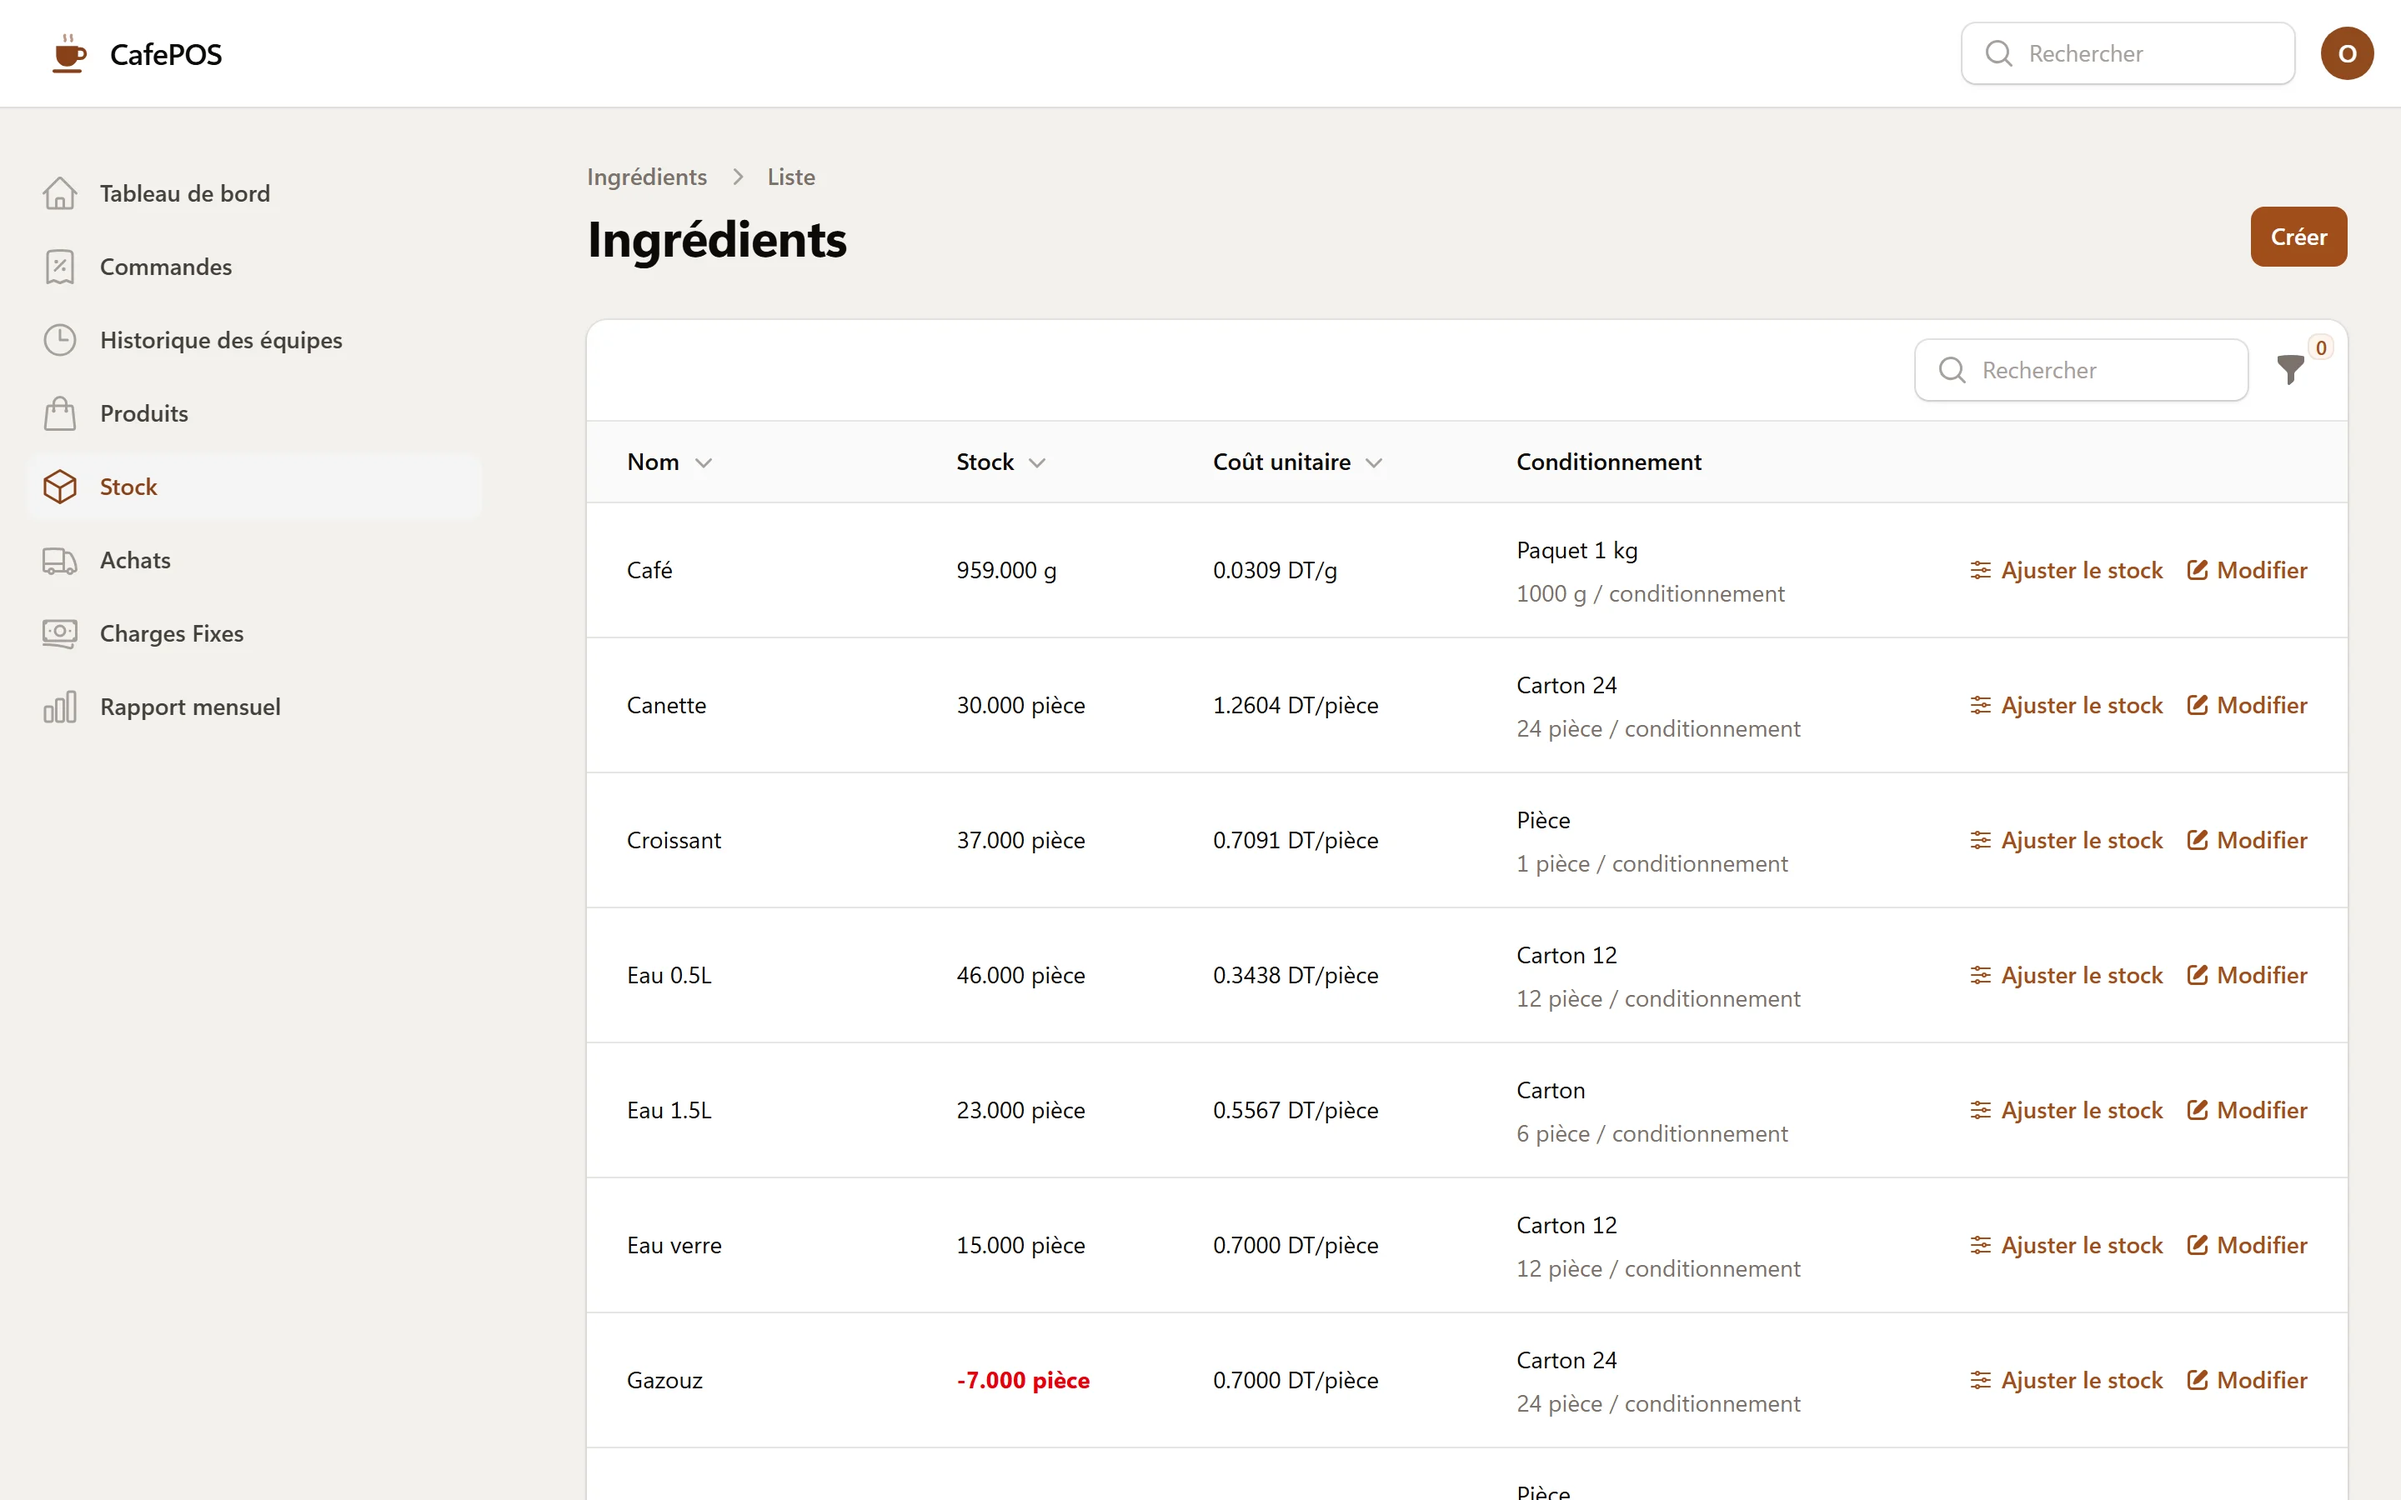
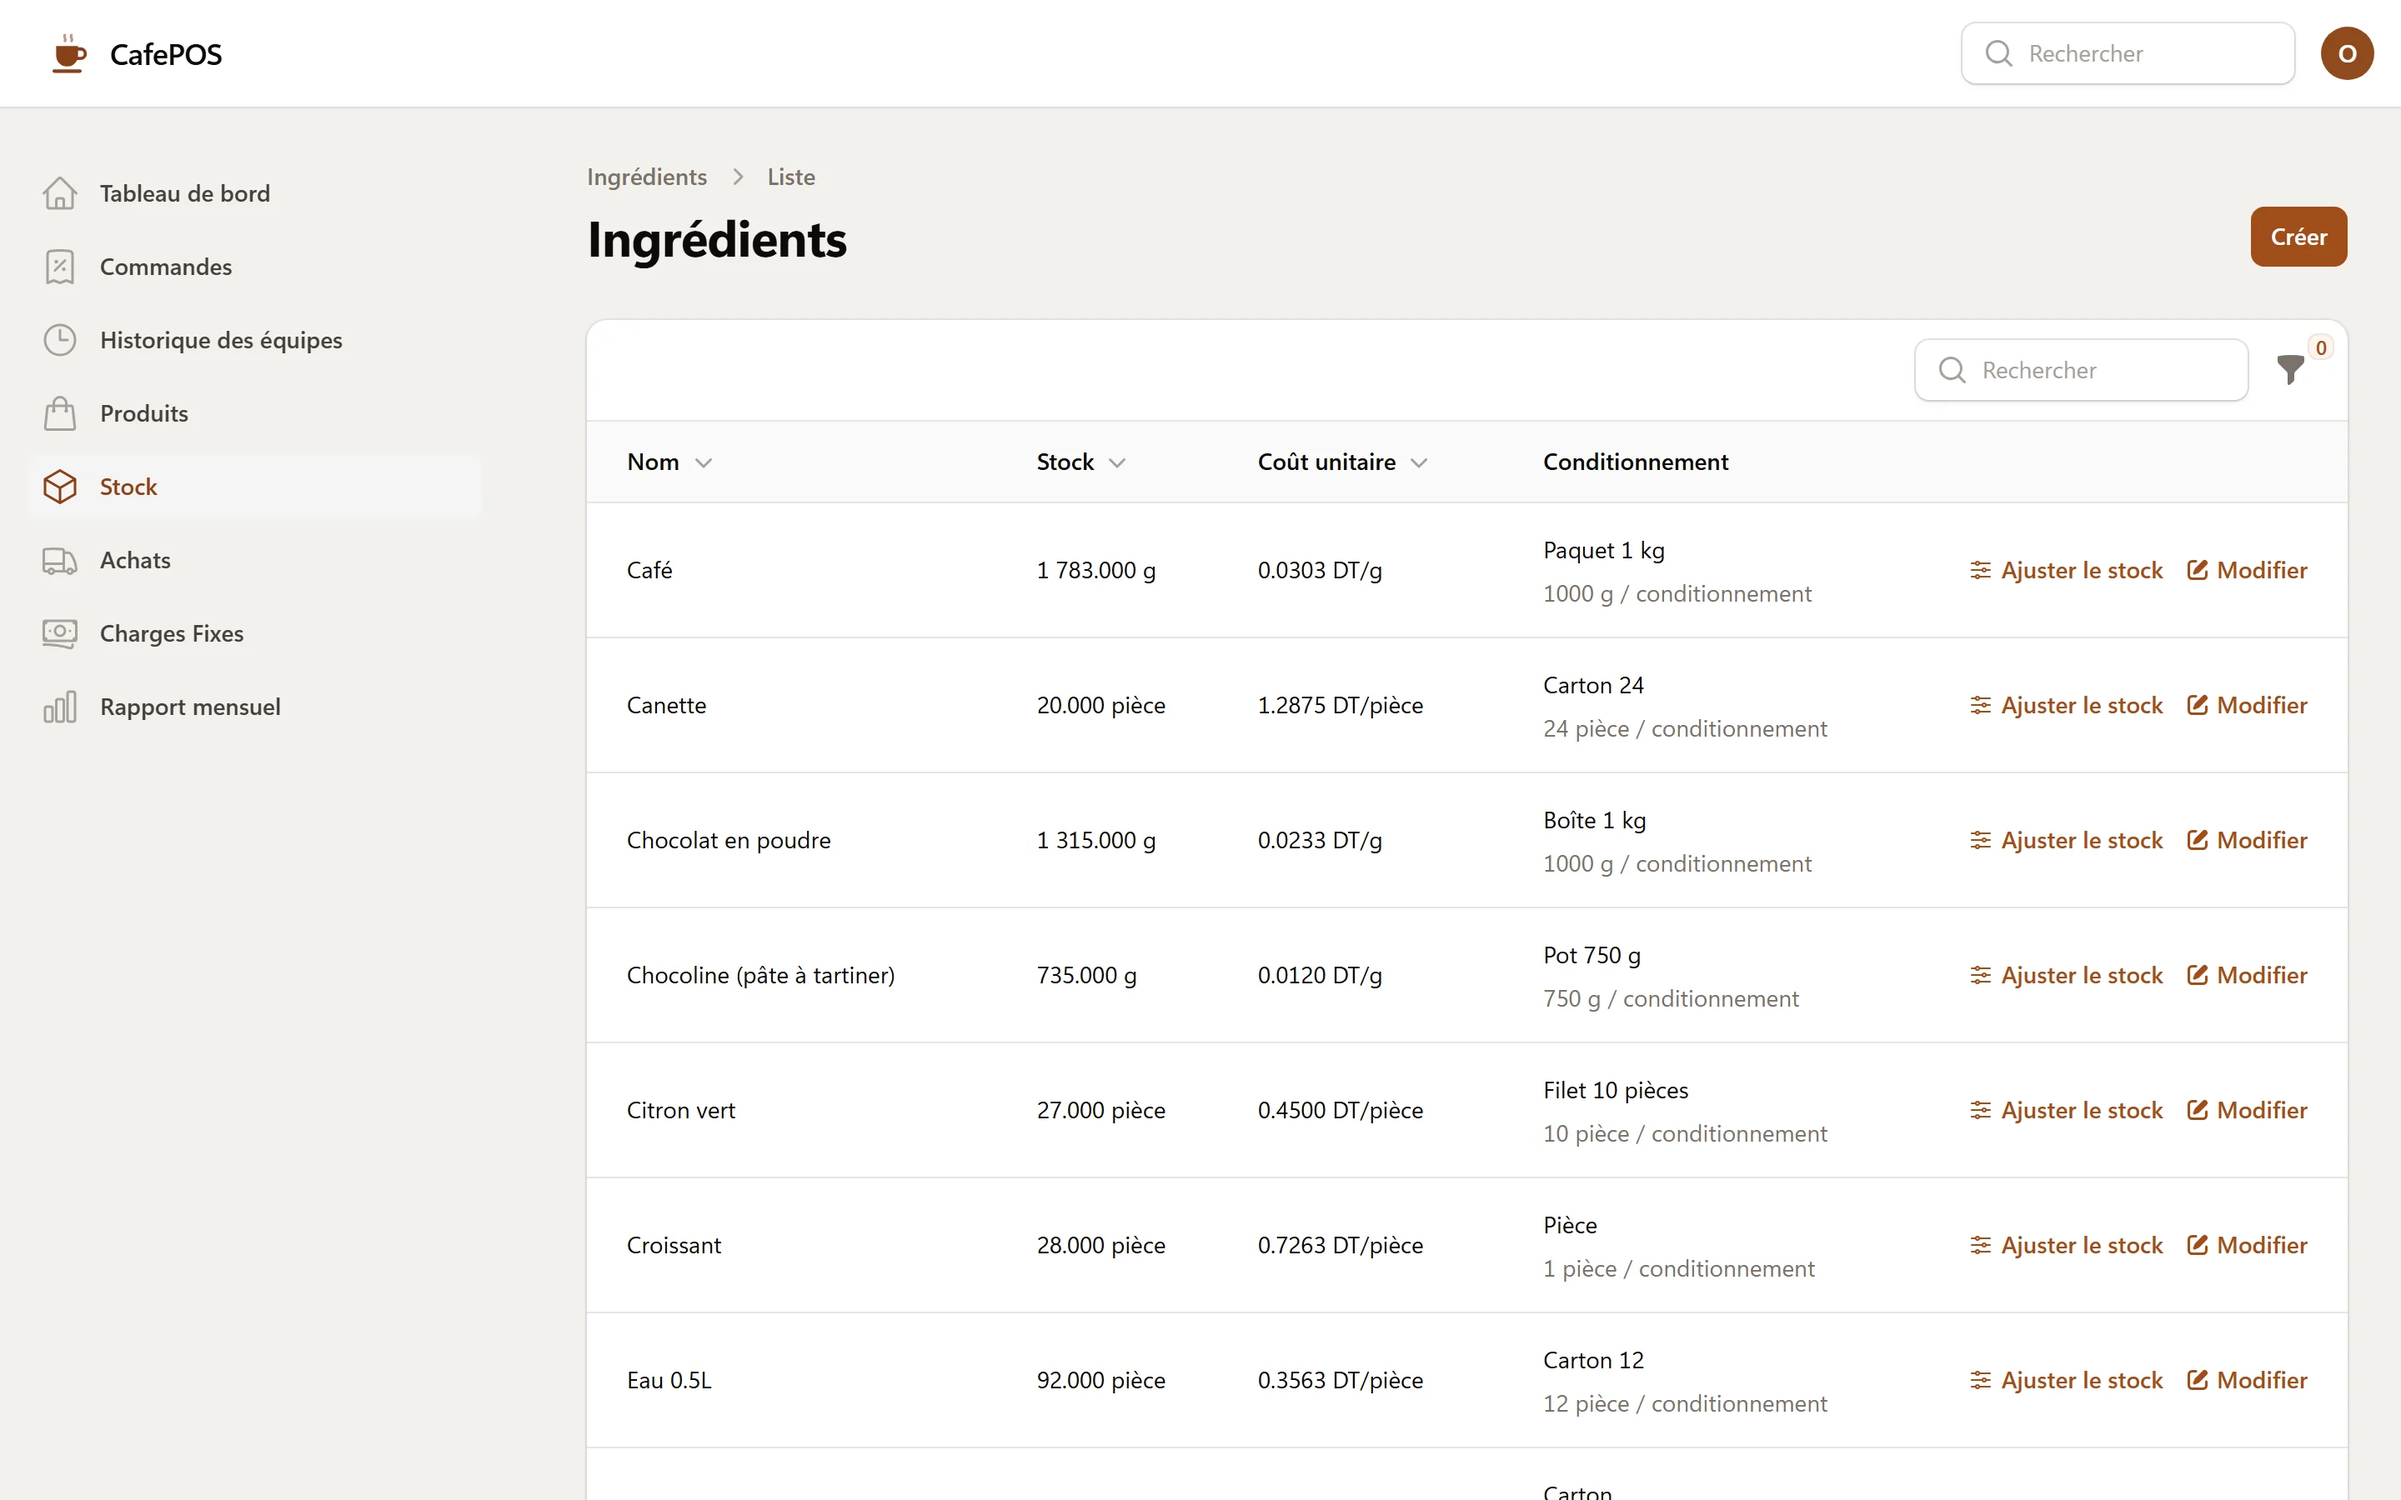
Reshoot the showcase screenshots on a full month of demo data
Screenshots now show the end of a profitable demo month and complete
demo recipes, so costs and margins read realistically; one recipe is
left incomplete to show the estimate marker.

diff --git a/README.md b/README.md
@@ -15,7 +15,7 @@ report for the owner, all running on one Windows laptop with no internet connect
 ![The till: categories, product tiles and the current order](docs/screenshots/till.webp)
 
 > All names, prices, costs, recipes, expenses and sales in these screenshots are **generated demo
-> data**, not a real cafe's figures. The demo owner PIN is `1234`.
+> data**, not a real cafe's figures (with a few extra demo recipes beyond the seed). The demo owner PIN is `1234`.
 
 ## Why
 
@@ -77,11 +77,11 @@ set the constraints:
 | ![End-of-shift confirmation](docs/screenshots/till-end-shift.webp) | ![Shift receipt on the till](docs/screenshots/till-receipt.webp) |
 | **Ending a shift** asks for confirmation; the till then locks. | **Shift receipt:** items x qty, orders, cancelled orders apart, total. |
 | ![Owner dashboard](docs/screenshots/dashboard.webp) | ![Monthly report](docs/screenshots/monthly-report.webp) |
-| **Dashboard:** today, month, estimated profit (a week into the month, fixed expenses still outweigh sales), stock alerts, latest shifts. | **Monthly report:** net profit, then cost and margin per product (`~` = estimate from an incomplete recipe). |
+| **Dashboard:** today, month, estimated net profit, stock alerts, latest shifts. | **Monthly report:** net profit, then cost and margin per product (`~` = estimate from an incomplete recipe). |
 | ![Products with cost and margin](docs/screenshots/products.webp) | ![Product recipe editor](docs/screenshots/product-recipe.webp) |
-| **Products** with estimated cost, recipe status and margin. | **Recipe** of a product, costed per ingredient. |
+| **Products** with estimated cost, recipe status and margin. | **Recipe** of a product (here a mojito), costed per ingredient. |
 | ![Shift history receipt](docs/screenshots/shift-view.webp) | ![Ingredients and stock](docs/screenshots/ingredients.webp) |
-| **Shift history:** any past shift's receipt, including cancellations. | **Stock:** levels (negative in red), unit cost, packaging, stock adjustment. |
+| **Shift history:** any past shift's receipt, including cancellations. | **Stock:** levels, unit cost, packaging, stock adjustment (negative stock shows in red). |
 | ![Till in English](docs/screenshots/till-en.webp) | <img src="docs/screenshots/phone-dashboard-en.webp" alt="Dashboard on a phone, in English" width="260"> |
 | **English UI** in one tap (menu items keep their French names). | **On the owner's phone** over the cafe Wi-Fi. |
 
